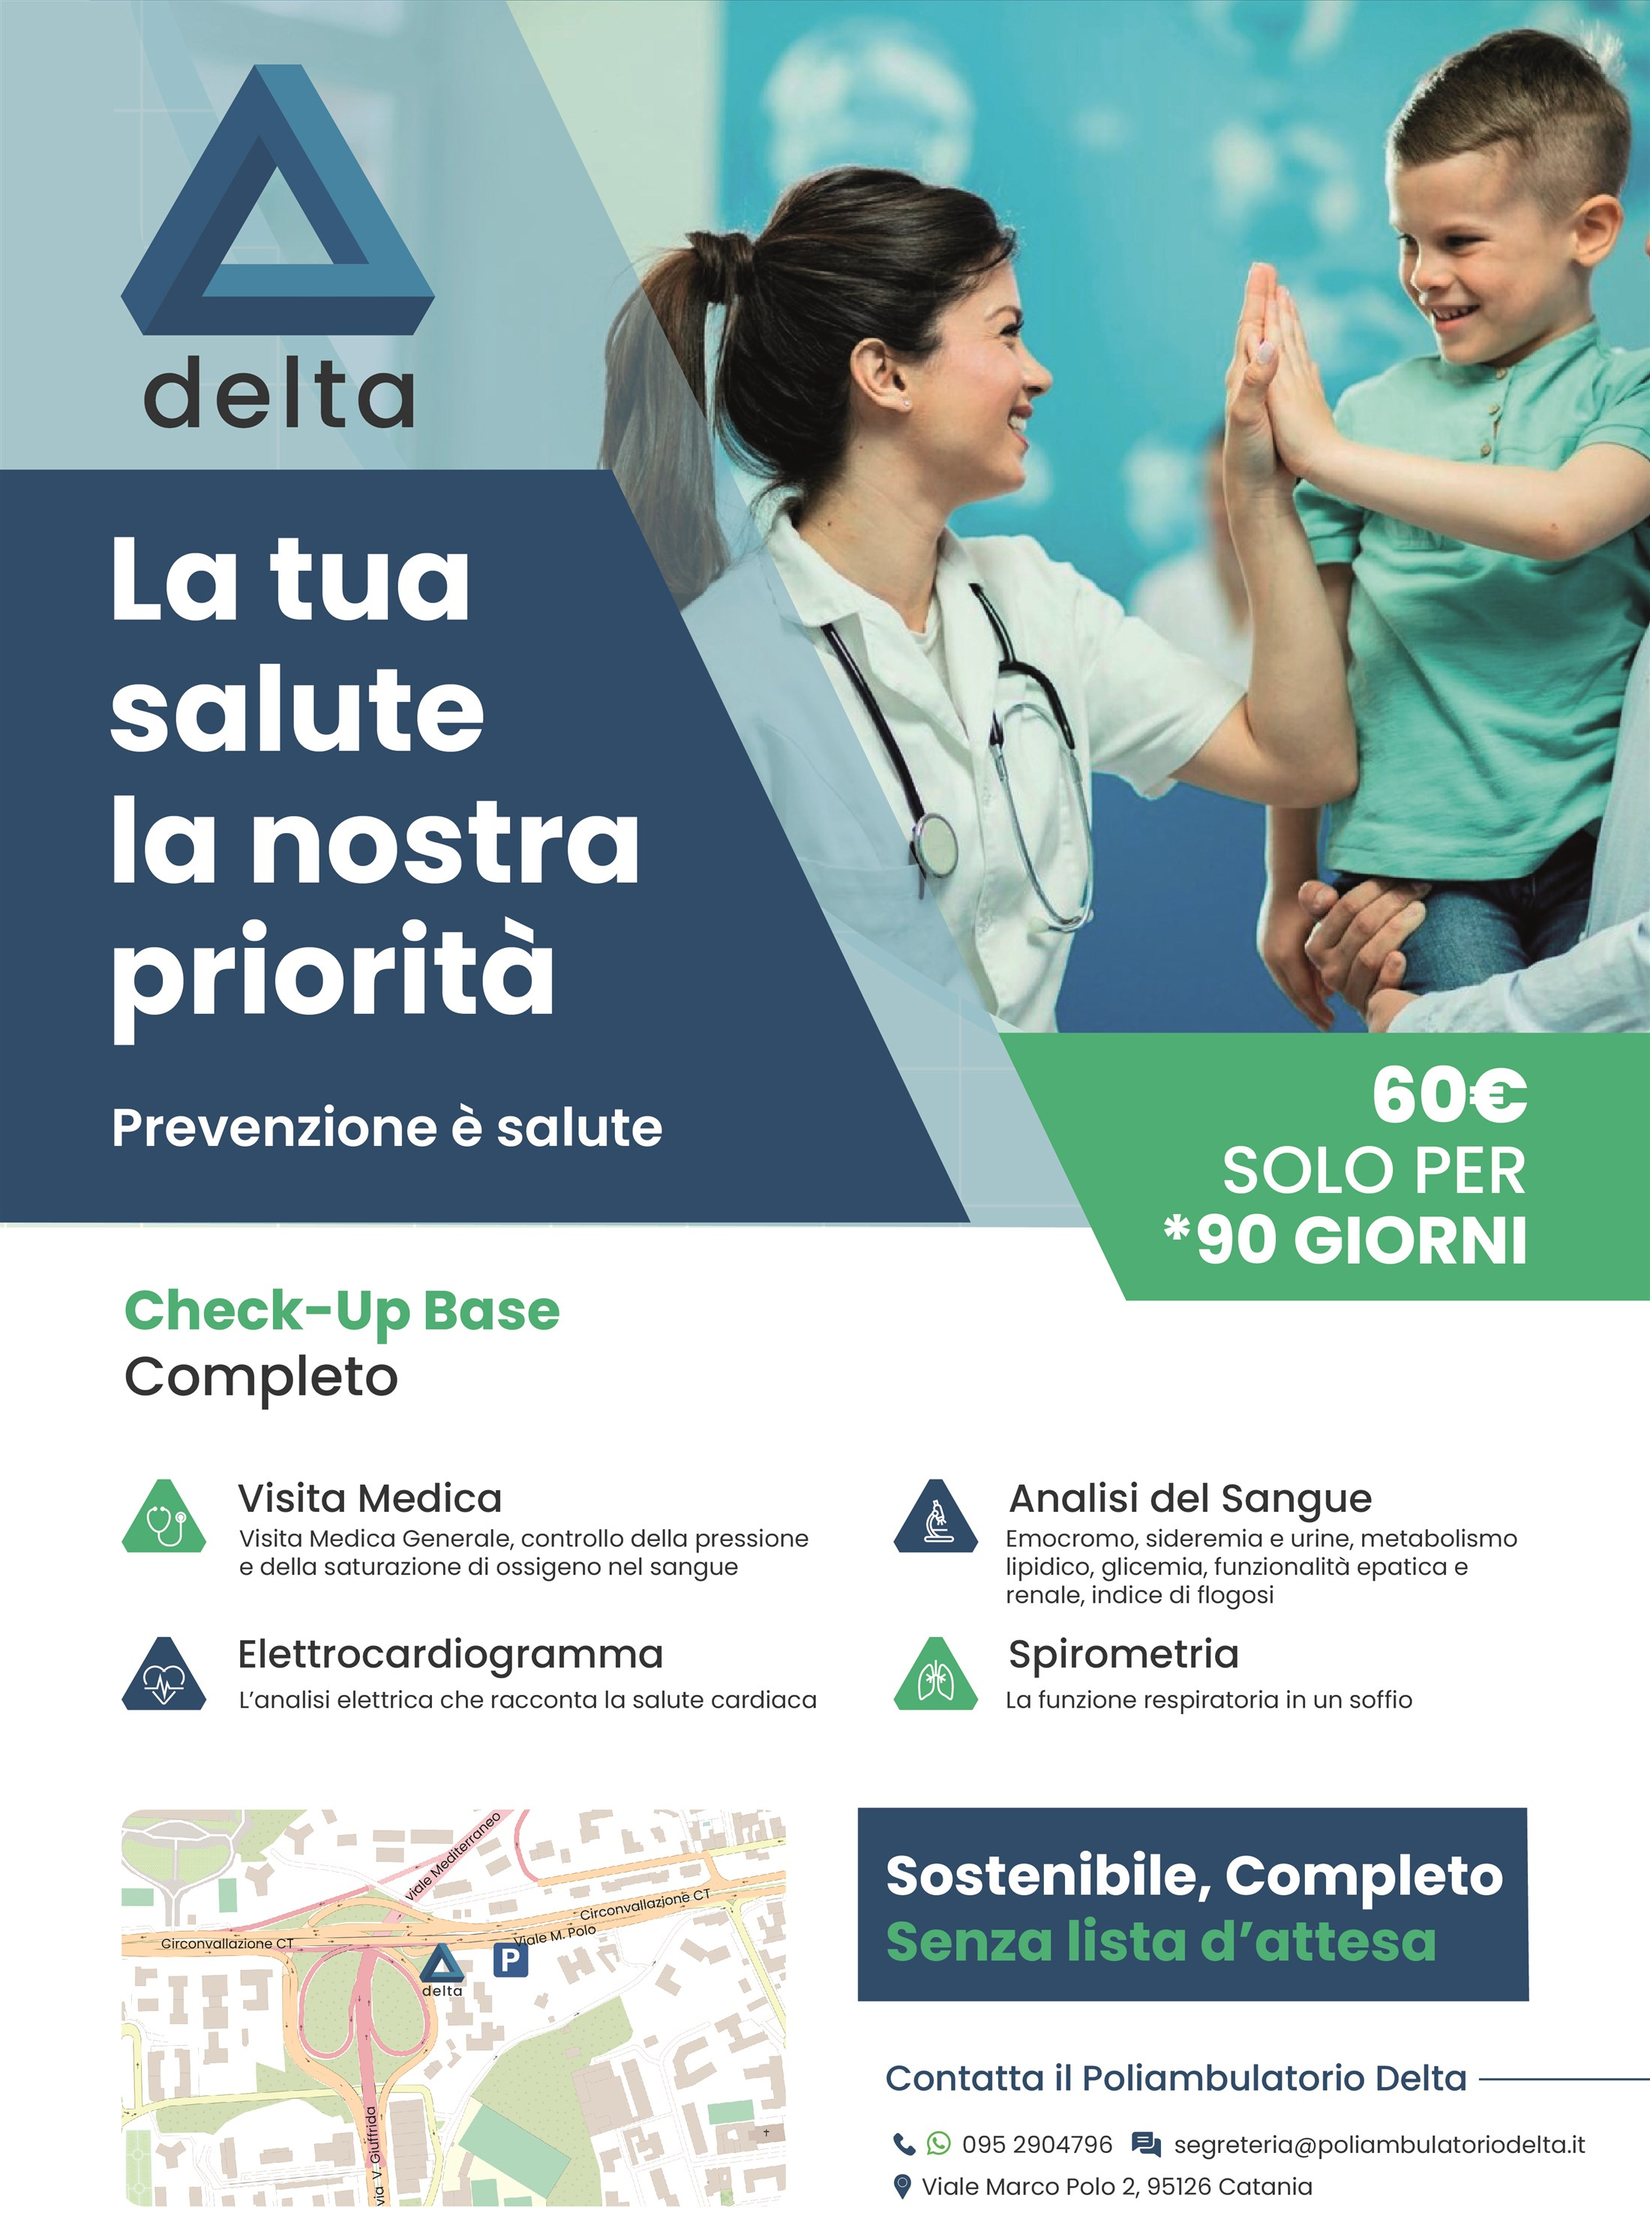
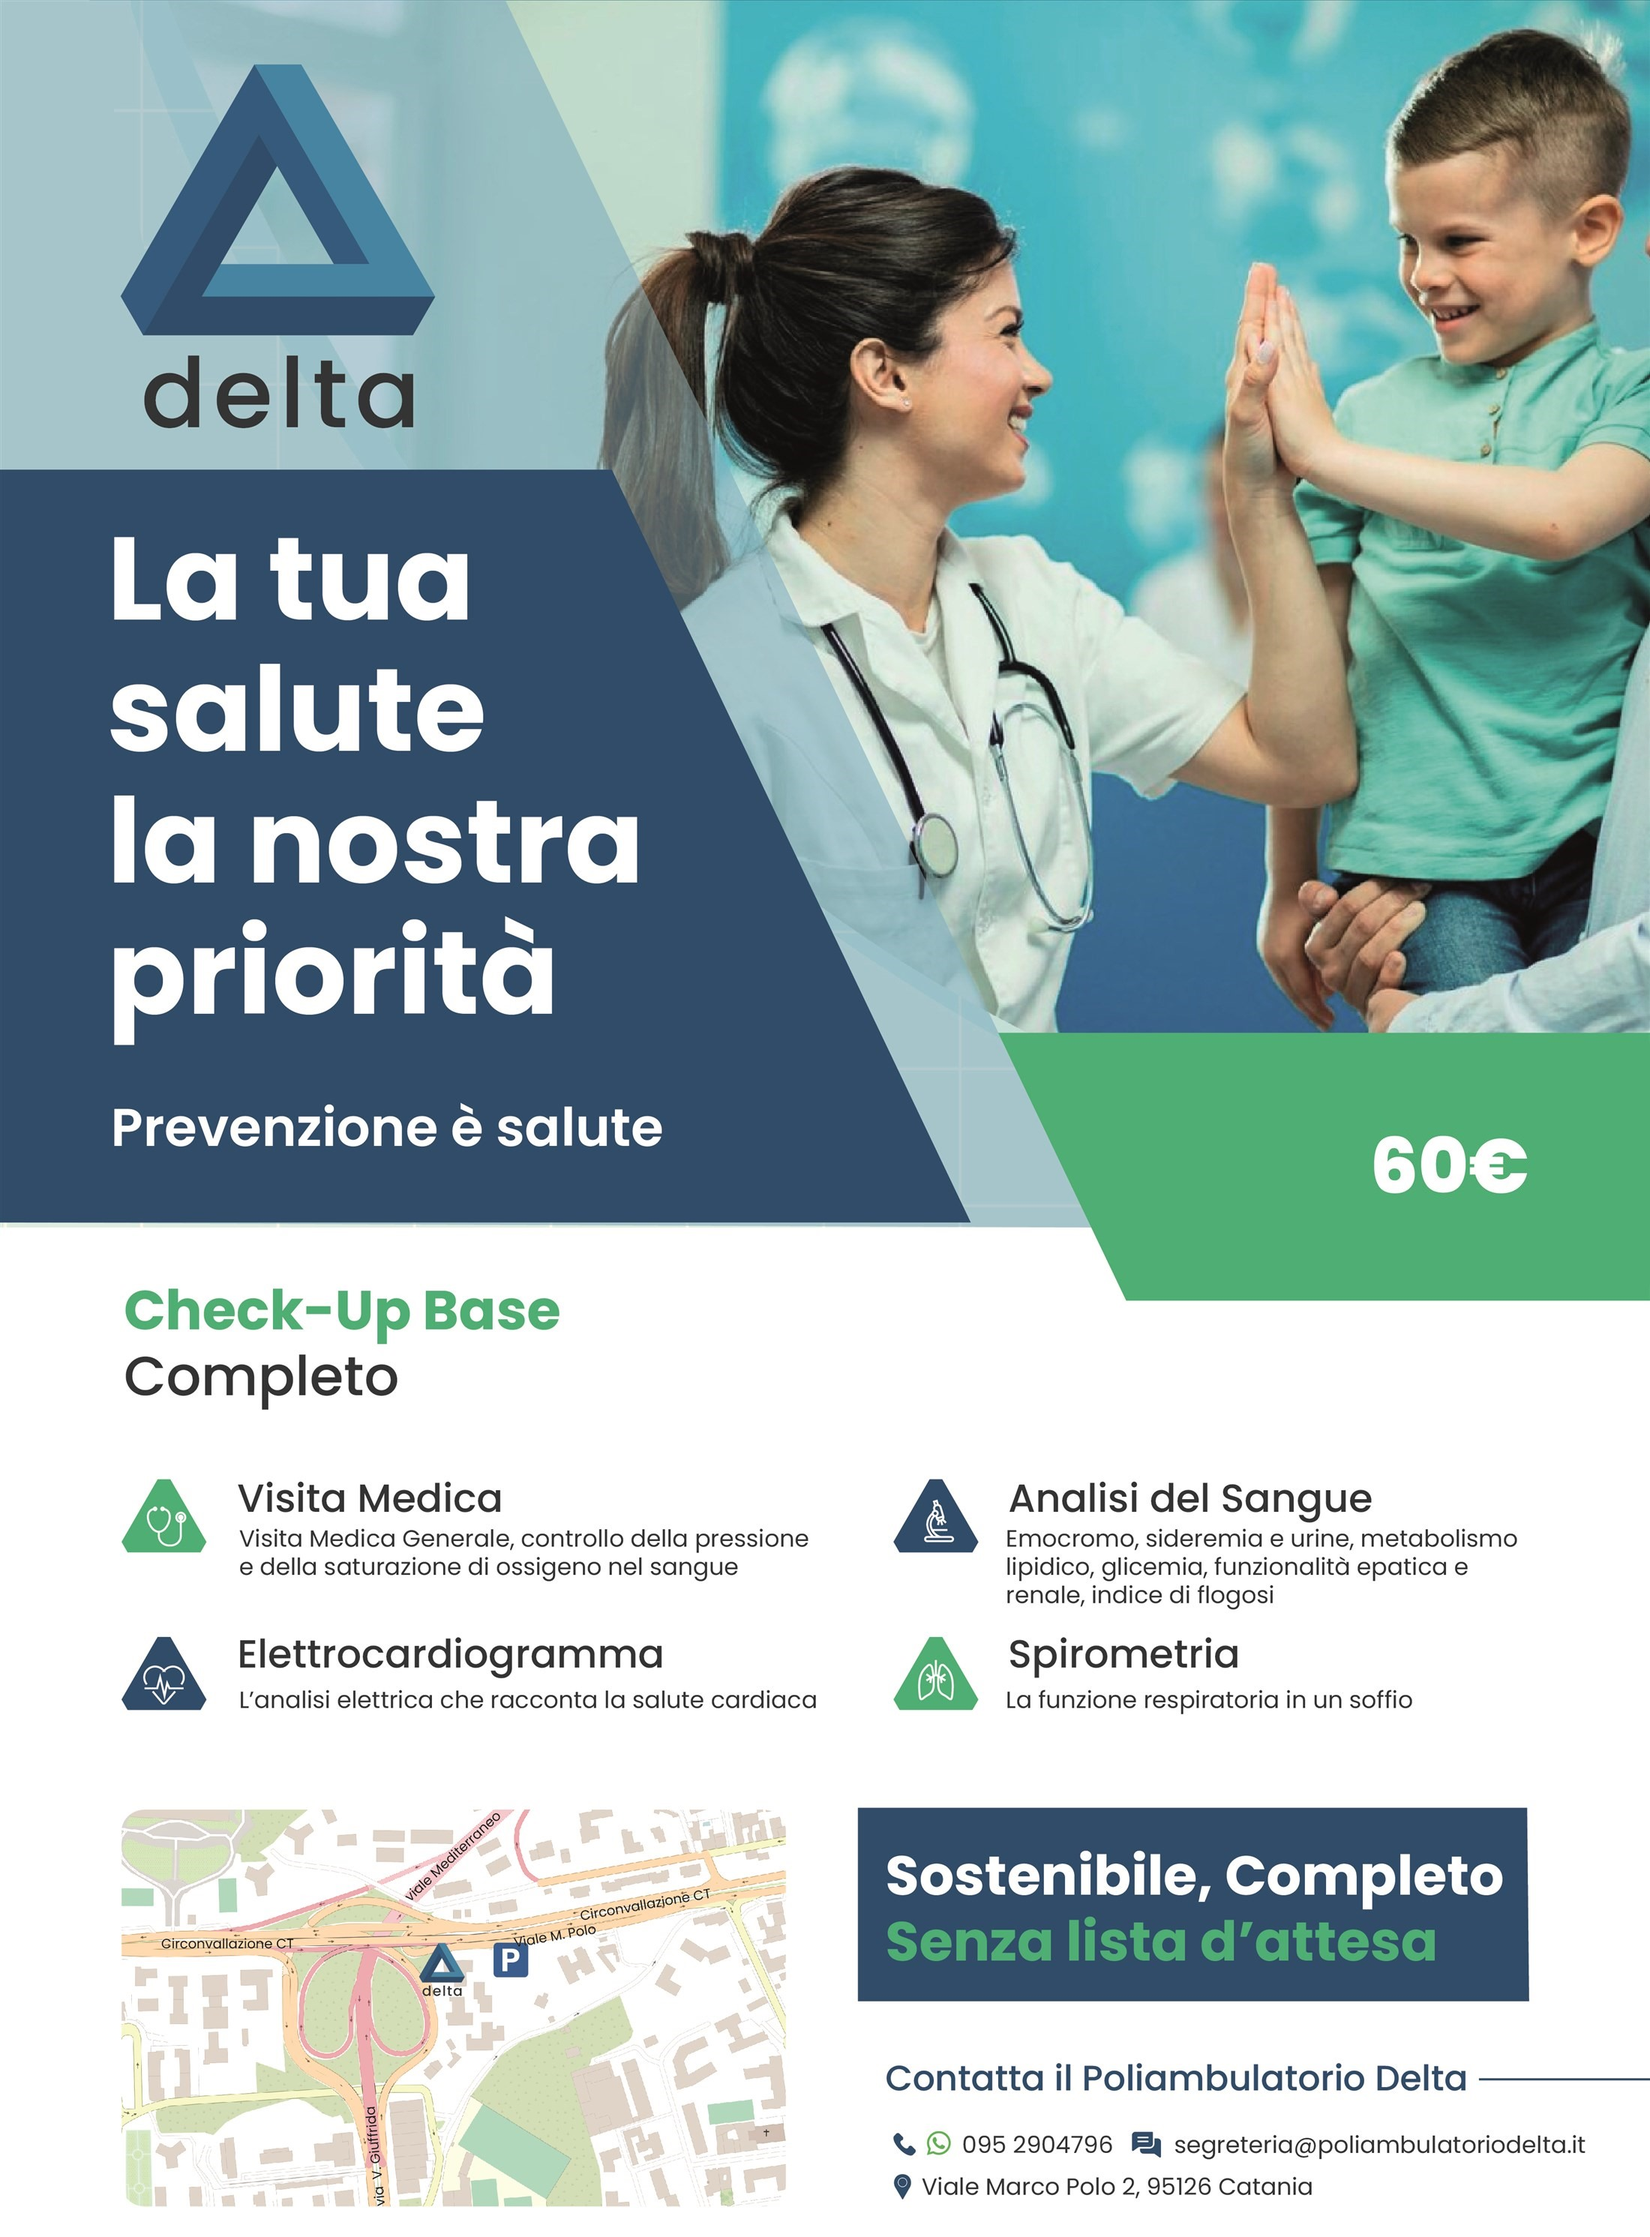
Aggiorna la locandina del Check-Up rimuovendo la dicitura 'solo per *90 giorni'

Changed region(s): [[0.7109, 0.4677, 0.9273, 0.5612]]

diff --git a/index.html b/index.html
@@ -221,8 +221,8 @@
         <div class="promo-grid-2">
 
           <div class="promo-card">
-            <div class="promo-card-image lightbox-trigger" data-full="images/promo-checkup-full.jpg" role="button" tabindex="0" aria-label="Ingrandisci la locandina del Check-Up Base Completo">
-              <img src="images/promo-checkup.jpg" alt="Locandina del Check-Up Base Completo, Settembre Ottobre Novembre 2026">
+            <div class="promo-card-image lightbox-trigger" data-full="images/promo-checkup-full.jpg?v=2" role="button" tabindex="0" aria-label="Ingrandisci la locandina del Check-Up Base Completo">
+              <img src="images/promo-checkup.jpg?v=2" alt="Locandina del Check-Up Base Completo, Settembre Ottobre Novembre 2026">
             </div>
             <div class="promo-card-body">
               <span class="promo-tag">In evidenza</span>
